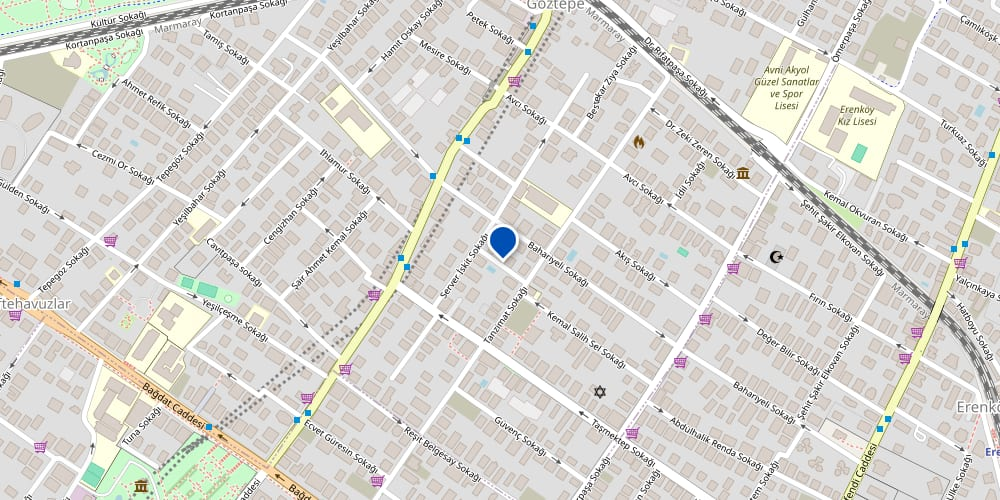
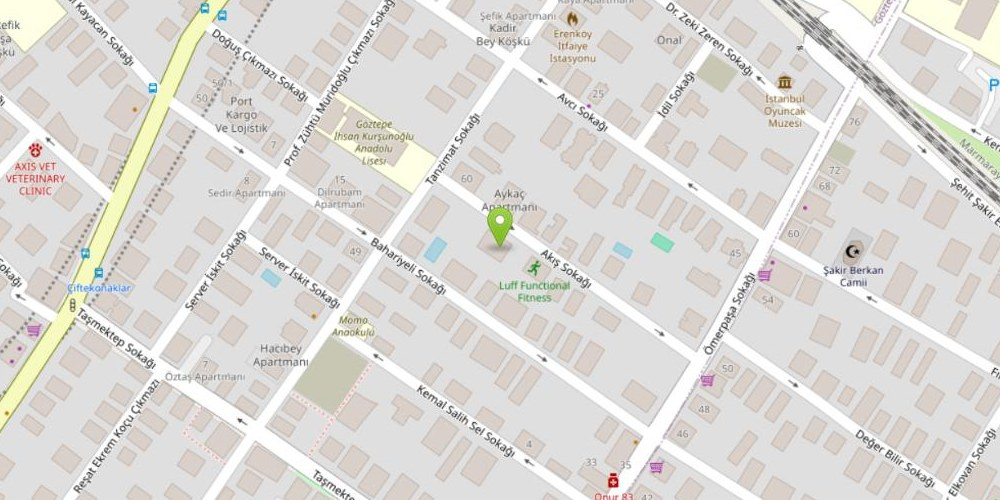
Fix the contact section's office map pin location
The map screenshot and Get Directions link both pointed roughly 250m
southwest of the actual office on Akış Sokağı. The static map is
regenerated centered on the geocoded building (Akış Sk. No:9), and
directionsUrl now uses an address-search link so Google resolves the
exact building instead of a manually-entered coordinate.

diff --git a/src/data/site.ts b/src/data/site.ts
@@ -78,7 +78,7 @@ export const site = {
     fax: '(+90) 216 450 54 80',
     email: 'info@gecit.net',
     mapImage: '/img/office-map.jpg',
-    directionsUrl: 'https://www.google.com/maps?q=40.974709,29.065482',
+    directionsUrl: 'https://www.google.com/maps/search/?api=1&query=Ak%C4%B1%C5%9F+Sok.+9%2F35%2C+G%C3%B6ztepe%2C+Kad%C4%B1k%C3%B6y%2C+%C4%B0stanbul+34730',
     labels: {
       phone: { tr: 'Tel', en: 'Phone' },
       fax: { tr: 'Faks', en: 'Fax' },
